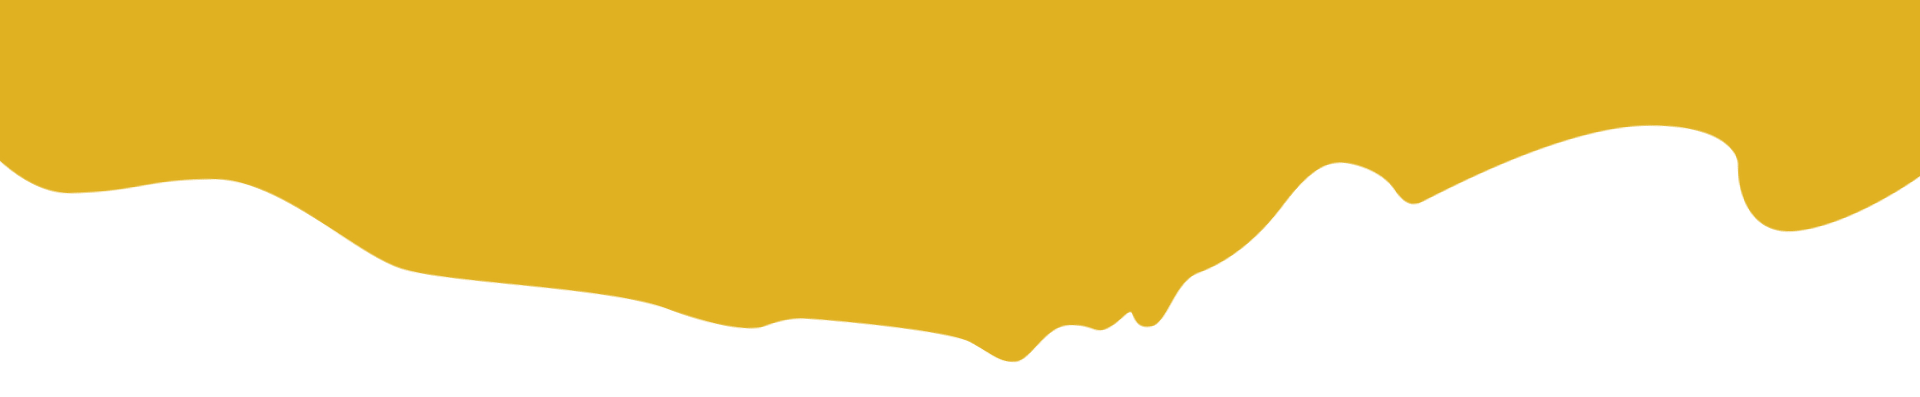
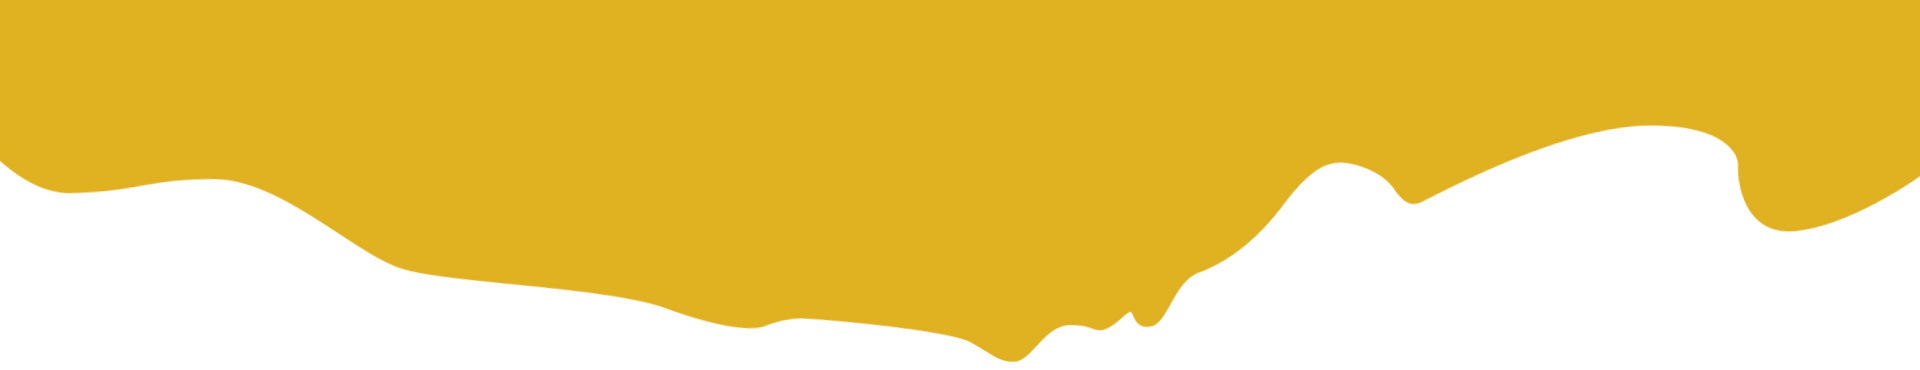
animation add

Changed region(s): [[0.0, 0.2973, 0.9062, 0.9811], [0.9062, 0.4459, 1.0, 0.6243]]

diff --git a/Components/Hero.tsx b/Components/Hero.tsx
@@ -1,38 +1,168 @@
-import React from 'react'
+// import React from 'react'
+
+// const Hero = () => {
+//   return (
+//     <section className='hero w-full h-[100vh] relative'>
+//         <div className='absolute'>
+//             <img src="/images/header-mask.png" alt="" />
+//         </div>
+//         <div className='w-full h-full flex justify-between items-center px-[100px] relative'>
+//             <div className='w-full max-w-[665px] flex flex-col justify-start gap-y-5 z-1'>
+//                 <div className='flex justify-start items-center gap-x-3 capitalize font-Alan'>
+//                     <span className='py-1 px-3 rounded-[30px] border border-solid border-[#DAA404] text-[20px] text-[#DAA404] hover:bg-[#DAA404] hover:text-white cursor-pointer'>pure hydration</span>
+//                     <span className='py-1 px-3 rounded-[30px] border border-solid border-[#DAA404] text-[20px] text-[#DAA404] hover:bg-[#DAA404] hover:text-white cursor-pointer'>daily wellness</span>
+//                     <span className='py-1 px-3 rounded-[30px] border border-solid border-[#DAA404] text-[20px] text-[#DAA404] hover:bg-[#DAA404] hover:text-white cursor-pointer'>better living</span>
+//                 </div>
+//                 <div className='capitalize font-Alan text-[#161616] leading-[78px]'>
+//                     <h2 className='text-[50px] leading-[55px] font-bold font-Albert'>the smarter way to</h2>
+//                     <h2 className='text-[87.32px] font-bold'> get magnesium.</h2>
+//                 </div>
+//                 <div className='flex flex-col gap-y-4 font-Albert text-black'>
+//                     <p className='capitalize font-normal text-[20px]  leading-[30px]'>MG BOOST is a premium magnesium sparkling drink that supports calm, focus, digestion, and better sleep</p>
+//                     <div className='flex gap-x-3 capitalize '>
+//                         <button className='primary-btn '>
+//                             <p className='pl-8'>shop now</p>
+//                             <span className=''>
+//                                 <img src="/icons/Arrow 1.png" alt="" className='w-[17px] h-[15px]'/>
+//                             </span> 
+//                         </button>
+//                         <button className='sec-btn '>join to waitlist</button>
+//                     </div>
+//                 </div>
+//             </div>
+//             <div className='flex justify-end w-full absolute right-10 bottom-0'>
+//                 <img src="/images/primary-banner.png" alt="" />
+//             </div>
+//         </div>
+//     </section>
+//   )
+// }
+
+// export default Hero
+"use client";
+
+import React, { useEffect, useState } from "react";
+
+
+const images = [
+  "/images/primary-banner.png",
+  "/images/primary-banner02.png"
+
+];
+
+const mask = [
+    "/images/Mask group-1.png",
+    "/images/Mask group.png"
+]
+
+const textColor = [
+  "text-[#161616]",
+  "text-[#325535]"
+]
+const btnbg = [
+  "bg-[#E0B121]",
+  "bg-[#325535]"
+]
 
 const Hero = () => {
-  return (
-    <section className='hero w-full h-[90vh]'>
-        <div className='w-full h-full flex justify-between items-center px-[100px] relative'>
-            <div className='w-full max-w-[665px] flex flex-col justify-start gap-y-5 z-1'>
-                <div className='flex justify-start items-center gap-x-3 capitalize font-Alan'>
-                    <span className='py-1 px-3 rounded-[30px] border border-solid border-[#DAA404] text-[20px] text-[#DAA404] hover:bg-[#DAA404] hover:text-white cursor-pointer'>pure hydration</span>
-                    <span className='py-1 px-3 rounded-[30px] border border-solid border-[#DAA404] text-[20px] text-[#DAA404] hover:bg-[#DAA404] hover:text-white cursor-pointer'>daily wellness</span>
-                    <span className='py-1 px-3 rounded-[30px] border border-solid border-[#DAA404] text-[20px] text-[#DAA404] hover:bg-[#DAA404] hover:text-white cursor-pointer'>better living</span>
-                </div>
-                <div className='capitalize font-Alan text-[#161616] leading-[78px]'>
-                    <h2 className='text-[50px] leading-[55px] font-bold font-Albert'>the smarter way to</h2>
-                    <h2 className='text-[87.32px] font-bold'> get magnesium.</h2>
-                </div>
-                <div className='flex flex-col gap-y-4 font-Albert text-black'>
-                    <p className='capitalize font-normal text-[20px]  leading-[30px]'>MG BOOST is a premium magnesium sparkling drink that supports calm, focus, digestion, and better sleep</p>
-                    <div className='flex gap-x-3 capitalize '>
-                        <button className='primary-btn '>
-                            <p className='pl-8'>shop now</p>
-                            <span className=''>
-                                <img src="/icons/Arrow 1.png" alt="" className='w-[17px] h-[15px]'/>
-                            </span> 
-                        </button>
-                        <button className='sec-btn '>join to waitlist</button>
-                    </div>
-                </div>
-            </div>
-            <div className='flex justify-end w-full absolute right-10 bottom-0'>
-                <img src="/images/primary-banner.png" alt="" />
-            </div>
-        </div>
-    </section>
-  )
-}
+  const [currentImage, setCurrentImage] = useState(0);
 
-export default Hero
+  useEffect(() => {
+    const timer = setInterval(() => {
+      setCurrentImage((prev) => (prev + 1) % images.length);
+    }, 2000);
+
+    return () => clearInterval(timer);
+  }, []);
+
+  return (
+    <section className="hero w-full  h-[100vh] relative overflow-hidden">
+
+      <div className=" w-full absolute">
+        <img 
+            key={currentImage}
+            src={mask[currentImage]} alt="" className="bg-cover h-[350px] max-h-[100%] w-full" />
+      </div>
+
+      <div className="w-full h-full flex justify-between items-center px-[100px] relative">
+
+        <div className="w-full h-full max-h-[400px] max-w-[665px] flex flex-col justify-start gap-y-5 z-1 mt-40">
+
+          <div className="flex justify-start items-center gap-x-3 capitalize font-Alan">
+
+            <span className="py-1 px-3 rounded-[30px] border border-solid border-[#DAA404] text-[20px] text-[#DAA404] hover:bg-[#DAA404] hover:text-white cursor-pointer">
+              pure hydration
+            </span>
+
+            <span className="py-1 px-3 rounded-[30px] border border-solid border-[#DAA404] text-[20px] text-[#DAA404] hover:bg-[#DAA404] hover:text-white cursor-pointer">
+              daily wellness
+            </span>
+
+            <span className="py-1 px-3 rounded-[30px] border border-solid border-[#DAA404] text-[20px] text-[#DAA404] hover:bg-[#DAA404] hover:text-white cursor-pointer">
+              better living
+            </span>
+
+          </div>
+
+          <div className="capitalize font-Alan text-[#161616] leading-[78px]">
+
+            <h2 className="text-[50px] leading-[55px] font-bold font-Albert">
+              the smarter way to
+            </h2>
+
+            <h2 className={`text-[87.32px] font-bold ${textColor[currentImage]} `}>
+              get magnesium.
+            </h2>
+
+          </div>
+
+          <div className="flex flex-col gap-y-4 font-Albert text-black">
+
+            <p className="capitalize font-normal text-[20px] leading-[30px]">
+              MG BOOST is a premium magnesium sparkling drink that supports
+              calm, focus, digestion, and better sleep
+            </p>
+
+            <div className="flex gap-x-3 capitalize">
+
+              <button className={`primary-btn ${btnbg[currentImage]}`}>
+                <p className="pl-8">shop now</p>
+
+                <span>
+                  <img
+                    src="/icons/Arrow 1.png"
+                    alt=""
+                    className="w-[17px] h-[15px]"
+                  />
+                </span>
+              </button>
+
+              <button className="sec-btn">
+                join to waitlist
+              </button>
+
+            </div>
+
+          </div>
+
+        </div>
+
+        {/* ONLY THIS IMAGE CHANGES */}
+        <div className="flex h-full justify-end items-end w-full absolute bottom-0">
+
+          <img
+            key={currentImage}
+            src={images[currentImage]}
+            alt=""
+            className="animate-[imageChange_0.6s_ease-in-out] h-[800px] "
+          />
+
+        </div>
+
+      </div>
+
+    </section>
+  );
+};
+
+export default Hero;

diff --git a/Components/Header.tsx b/Components/Header.tsx
@@ -1,9 +1,6 @@
 const Header = () => {
   return (
-    <header className="w-full relative flex justify-between">
-        <div className='absolute'>
-            <img src="/images/header-mask.png" alt="" />
-        </div>
+    <header className="w-full absolute flex justify-between">
         <nav className="w-full flex justify-between px-[100px]  z-10">
             <div className="flex justify-start w-[260px] h-[88.3px] mt-[56px]">
                 <img src="/images/logo.png" alt="LOGO" />

diff --git a/app/globals.css b/app/globals.css
@@ -41,7 +41,6 @@ body {
 .primary-btn{
   width: 200px;
   height: 52px;
-  background-color: #E0B121;
   color: white;
   display: flex ;
   justify-content: center;
@@ -56,6 +55,18 @@ body {
   font: normal;
   transition: 0.1s linear;
 }
+@keyframes imageChange {
+  from {
+    opacity: 0;
+    transform: translateX(40px);
+  }
+
+  to {
+    opacity: 1;
+    transform: translateX(0);
+  }
+}
+
 /* .teanima{
   z-index: 0;
   opacity: 0;
